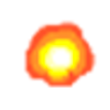
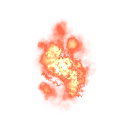
agrego manejo de animacion

diff --git a/src/cliente/GUI/Animacion.cpp b/src/cliente/GUI/Animacion.cpp
@@ -1,20 +1,38 @@
+#include <iostream>
 #include "includes/cliente/GUI/Animacion.h"
+#include "includes/cliente/utils/ConfigCliente.h"
 
-Animacion::Animacion(std::vector<Textura>& texturas, unsigned int ancho, unsigned int alto) :
-    ancho_(ancho),
-    alto_(alto) {
-    for (Textura& t : texturas) {
-        frames_.push_back(std::move(t));
+void Animacion::loadFramesByIteration() {
+  int frames_division = iterations_.size() / frames_.size();
+  int frame_selected = 0;
+  int frame = 0;
+  for (size_t i = 0 ;i <iterations_.size();i++){
+    if (frame > frames_division) {
+      frame = 0;
+      frame_selected++;
     }
+    iterations_[i] = frame_selected;
+    frame ++;
+  }
 }
 
-Textura& Animacion::get(uint32_t numeroIteracion) {
-    return frames_[numeroIteracion % frames_.size()];
+Animacion::Animacion(std::vector<Textura> &texturas, unsigned int ancho, unsigned int alto) :
+    ancho_(ancho),
+    alto_(alto),
+    iterations_(CONFIG_CLIENTE.fps(), 0) {
+  for (Textura &t : texturas) {
+    frames_.push_back(std::move(t));
+  }
+  loadFramesByIteration();
+}
+
+Textura &Animacion::get(uint32_t numeroIteracion) {
+  return frames_[iterations_[numeroIteracion % iterations_.size()]];
 }
 
 unsigned int Animacion::ancho() {
-    return ancho_;
+  return ancho_;
 }
 unsigned int Animacion::alto() {
-    return alto_;
+  return alto_;
 }

diff --git a/includes/cliente/GUI/Animacion.h b/includes/cliente/GUI/Animacion.h
@@ -2,6 +2,7 @@
 #define _ANIMACION_H_
 
 #include <vector>
+#include <map>
 
 #include "includes/cliente/GUI/Textura.h"
 
@@ -10,7 +11,10 @@ private:
     unsigned int ancho_;
     unsigned int alto_;
     //TODO: Hash para ciclos
-    std::vector<Textura> frames_;    
+    std::vector<int> iterations_;
+    std::vector<Textura> frames_;
+
+    void loadFramesByIteration();
 
 public:
     Animacion(std::vector<Textura>& frames, unsigned int ancho, unsigned int alto);

diff --git a/src/cliente/GUI/Pista.cpp b/src/cliente/GUI/Pista.cpp
@@ -21,7 +21,6 @@ void Pista::crearPista(nlohmann::json pistaJson) {
         agregarBloque(0, i, j, texturas.at(bloqueTerreno));
       }
     }
-
     for (uint16_t i = 0; i < size_x; i++) {
       for (uint16_t j = 0; j < size_y; j++) {
         int bloqueTerreno = pistaJson["capas"]["pista"][std::to_string(i)][std::to_string(j)].get<int>();
